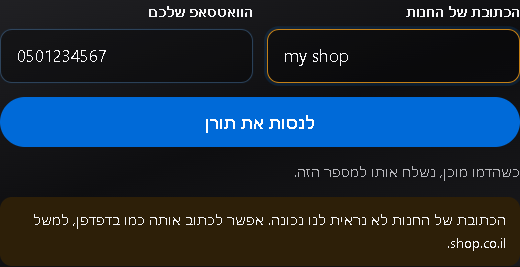
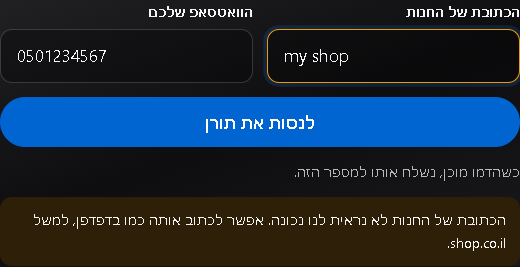
A join page: Toran, Teder or both on one form, what happens after it, three of the owners' questions, and the way in for stores already with us; the header's הצטרפות leads there
Claude-Session: https://claude.ai/code/session_013ytyKksuwzF2xehLBuYDbT

diff --git a/src/style.css b/src/style.css
@@ -545,6 +545,31 @@ input:focus, textarea:focus { outline: none; border-color: var(--accent-fill); b
 .approvals .ui-s { grid-area: st; }
 .ap-ok { grid-area: ok; justify-self: end; padding: 3px 12px; border-radius: 999px; background: var(--teder); color: #fff; font-size: 12px; font-weight: 700; }
 
+/* The join page: the headline, the products to tick, the form, then what happens after it. */
+.join-hero h1 { margin: 0 0 14px; font-size: clamp(32px, 4vw, 54px); }
+.join-hero .demo { max-width: 620px; }
+.picks { grid-column: 1 / -1; min-width: 0; margin: 0; padding: 0; border: 0; }
+.picks legend { margin-bottom: 10px; padding: 0; font-size: var(--fs-small); font-weight: 600; }
+.pick-row { display: grid; gap: 10px; }
+@media (min-width: 700px) { .pick-row { grid-template-columns: 1fr 1fr; } }
+.pick { position: relative; cursor: pointer; }
+.pick input { position: absolute; opacity: 0; pointer-events: none; }
+.pick-box { display: flex; align-items: center; gap: 12px; height: 100%; padding: 14px; border-radius: var(--r); background: var(--tile); box-shadow: inset 0 0 0 1.5px var(--line-2); transition: box-shadow 0.15s ease, background-color 0.15s ease; }
+.pick-box b { display: block; font-size: 17px; }
+.pick-box small { display: block; color: var(--ink-3); font-size: 13px; line-height: 1.4; }
+.pick-box .mark { flex: none; }
+.pick-tick { flex: none; display: grid; place-items: center; width: 24px; height: 24px; margin-inline-start: auto; border-radius: 50%; box-shadow: inset 0 0 0 1.5px var(--line-2); }
+.pick input:checked + .pick-box { background: var(--sheet); box-shadow: inset 0 0 0 2px var(--accent-fill), 0 8px 20px -14px rgba(0, 0, 0, 0.3); }
+.pick input:checked + .pick-box .pick-tick { background: var(--accent-fill); box-shadow: none; }
+.pick input:checked + .pick-box .pick-tick::after { content: ''; width: 5px; height: 10px; margin-top: -2px; border-right: 2.2px solid #fff; border-bottom: 2.2px solid #fff; transform: rotate(45deg); }
+.pick input:focus-visible + .pick-box { outline: 3px solid var(--accent-fill); outline-offset: 2px; }
+.join-tools { margin-top: 22px; color: var(--ink-3); font-size: var(--fs-small); }
+.after-steps { display: grid; gap: 20px; margin: 22px 0 0; padding: 0; list-style: none; counter-reset: step; }
+.after-steps li { position: relative; padding-inline-start: 52px; counter-increment: step; }
+.after-steps li::before { content: counter(step); position: absolute; inset-inline-start: 0; top: 0; display: grid; place-items: center; width: 36px; height: 36px; border-radius: 50%; background: var(--accent-fill); color: #fff; font-weight: 700; }
+.after-steps h3 { margin: 4px 0 6px; font-size: var(--fs-lead); }
+.after-steps p { margin: 0; max-width: 56ch; }
+
 /* The price on Toran's page, short, and the one form, at the end. */
 .terms-line { max-width: 62ch; margin-top: 20px; }
 .close-sec h2 + .lede { margin-top: 14px; }

diff --git a/src/form.js b/src/form.js
@@ -1,10 +1,14 @@
 // The site's one script beyond the header: it sends a form without leaving the page. Without it the forms still
 // work, as plain posts that land on /thanks or /try-again. Every word it shows is in the page, in a <template>, so
 // the copy lint reads it like the rest.
-//   form[data-form="demo" | "teder"]: data-wa is our WhatsApp number (empty in a draft), data-wa-text the message
+//   form[data-form="demo" | "teder" | "join"]: data-wa is our WhatsApp number (empty in a draft), data-wa-text the message
 //   it starts with, where {store} is the address they typed.
 (function () {
   var forms = document.querySelectorAll('form[data-form]');
+  // /join?p=teder (or toran) ticks that product alone.
+  var p = new URLSearchParams(location.search).get('p');
+  var jf = document.querySelector('form[data-form=join]');
+  if (jf && (p === 'teder' || p === 'toran')) ['toran', 'teder'].forEach(function (k) { jf.elements[k].checked = k === p; });
   for (var i = 0; i < forms.length; i++) forms[i].addEventListener('submit', send);
 
   function send(e) {
@@ -47,7 +51,7 @@
       else wa.remove();
     }
     msg.hidden = false;
-    var field = key === 'store' ? f.elements.store : key.indexOf('contact') === 0 ? f.elements.contact : null;
+    var field = key === 'store' ? f.elements.store : key.indexOf('contact') === 0 ? f.elements.contact : key === 'products' ? f.elements.toran : null;
     if (field) {
       field.setAttribute('aria-invalid', 'true');
       field.setAttribute('aria-describedby', msg.id);
